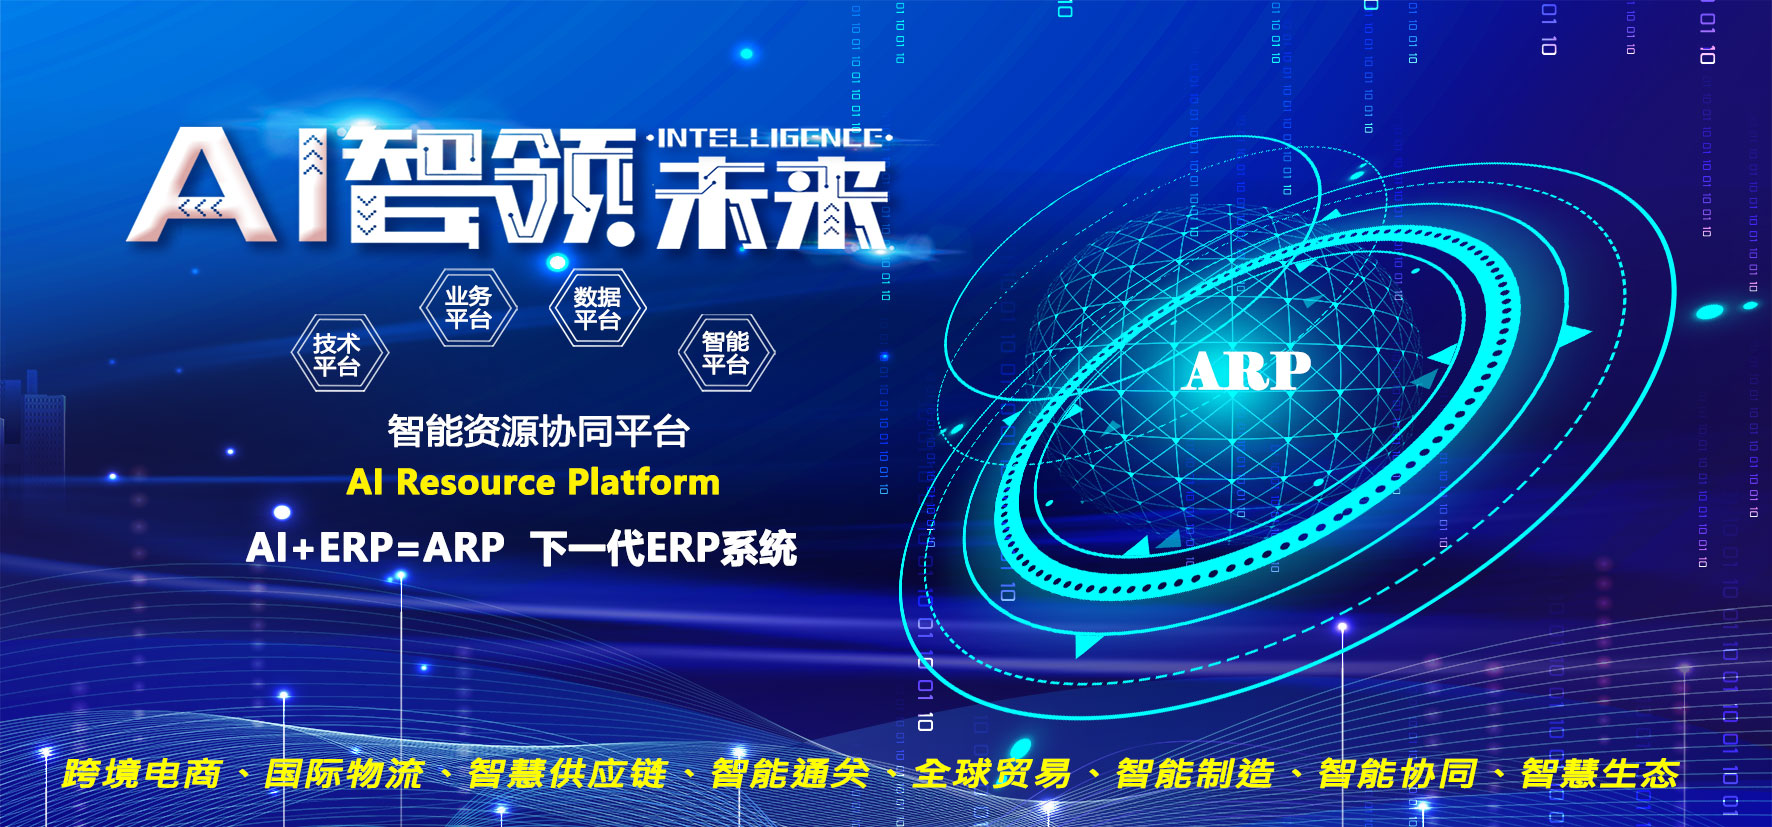
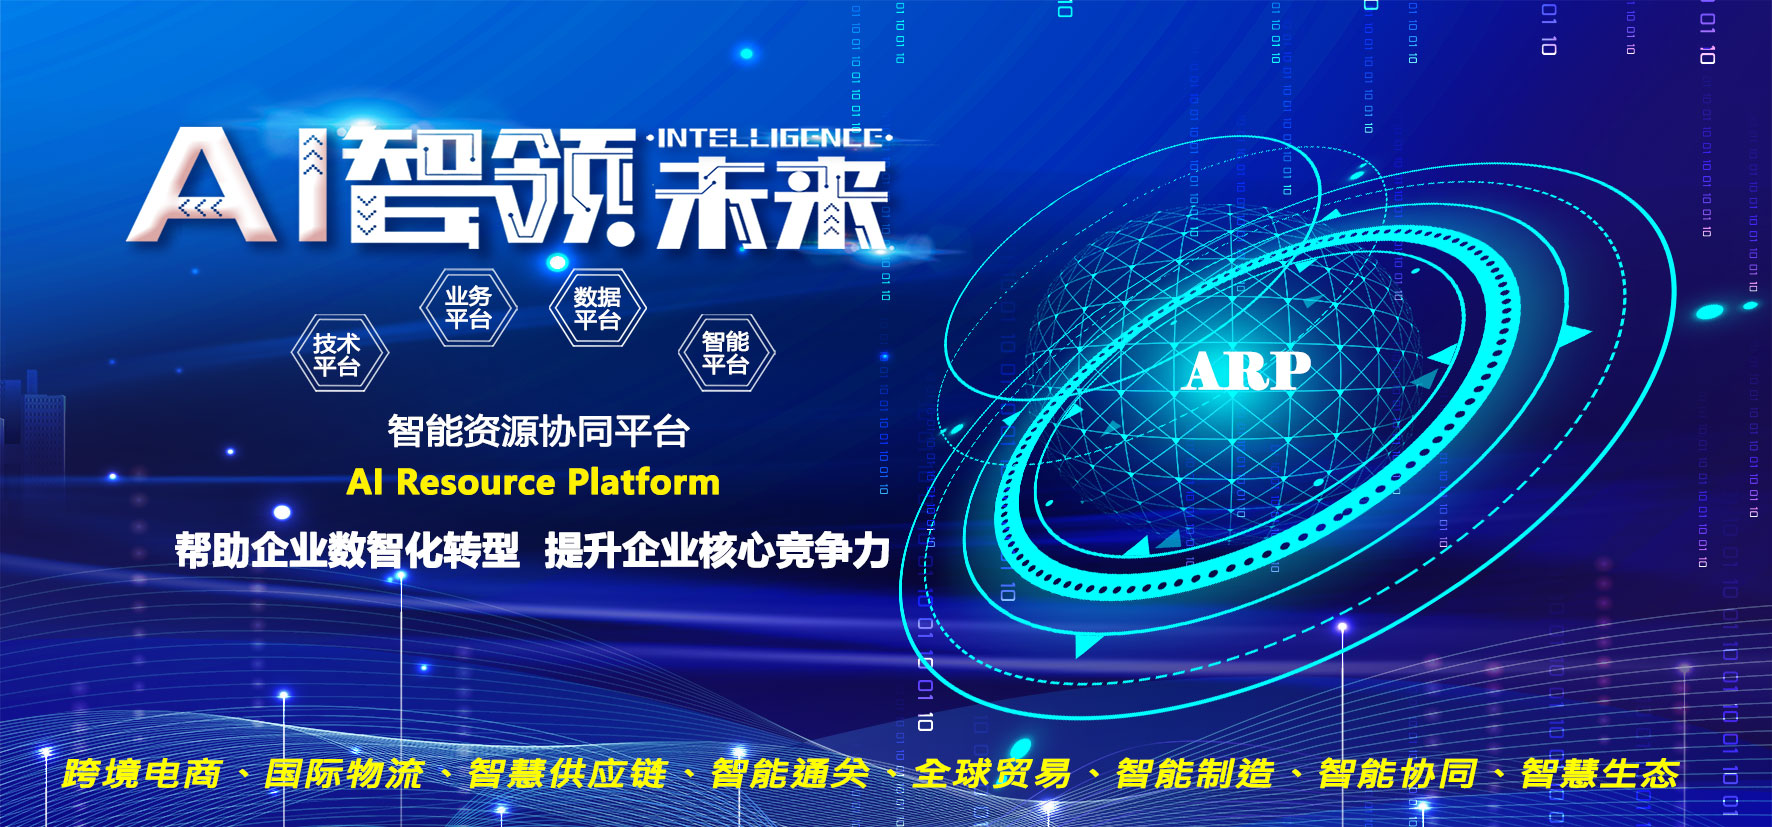
修改官网

Changed region(s): [[0.0931, 0.6348, 0.5277, 0.6953]]

diff --git a/src/pages/PortalPage/component/AboutCompany/index.tsx b/src/pages/PortalPage/component/AboutCompany/index.tsx
@@ -6,6 +6,7 @@ import { Col, Row, Steps } from 'antd';
 import MapEchart from '../MapEchart';
 import AboutUs from '@/assets/about-us.png';
 import AboutUs1 from '@/assets/about-us1.png';
+import LTextTitleRImg from '@/components/LTextTitleRImg';
 
 
 const AboutCompany = () => {
@@ -46,10 +47,10 @@ const AboutCompany = () => {
                     setCurrentTab(4);
                     goAnchor('HonoraryQualifications');
                     break;
-                case '社会责任':
-                    setCurrentTab(5);
-                    goAnchor('SocialResponsibility');
-                    break;
+                // case '社会责任':
+                //     setCurrentTab(5);
+                //     goAnchor('SocialResponsibility');
+                //     break;
                 default:
                     break;
             };
@@ -71,7 +72,7 @@ const AboutCompany = () => {
                         <span className={classNames(currentTab === 2 && styles['select-title'])}>企业文化</span>
                         <span className={classNames(currentTab === 3 && styles['select-title'])}>发展历程</span>
                         <span className={classNames(currentTab === 4 && styles['select-title'])}>荣誉资历</span>
-                        <span className={classNames(currentTab === 5 && styles['select-title'])}>社会责任</span>
+                        {/* <span className={classNames(currentTab === 5 && styles['select-title'])}>社会责任</span> */}
                     </div>
                     <div className={styles['grey-line']} />
                 </div>
@@ -88,7 +89,6 @@ const AboutCompany = () => {
                             </div>
                         </div>
                         <img src={AboutUs1} style={{ width: '100%', padding: '20px 0' }} />
-                        <div style={{ textIndent: '2em', paddingBottom: '20px' }}>帮助企业数智化转型，提升企业核心竞争力！</div>
                         {/* <img className={styles['video-img']} src="https://www.walltechsystem.cn/upload/2022-08/166070601401522300.png" /> */}
 
                         {/* <div className={styles['global-logistics-coverage']}>
@@ -122,7 +122,21 @@ const AboutCompany = () => {
                         <div id="CorporateCulture">企业文化</div>
                         <DownOutlined />
                     </div>
-                    <div className={styles['about-gaojet-real']}>
+                    <LTextTitleRImg title={''} img={''} list={[
+                        { title: '愿景', desc: '让人生活更美好' },
+                        { title: '使命', desc: '帮助企业数智化转型，实现全链路24小时库存和资源高效配置' },
+                        {
+                            title: '价值观', desc: `
+                        诚实守信：诚实、道德规范及高尚情操是我们做事的准则。<br />
+                        客户至上：以客户为中心，满足或超越客户期望的产品与服务。<br />
+                        创新思维：不断创新是令客户满意的基石，更会推动我们发展和提高竞争力。<br />
+                        追求极致：我们无论做任何事都要精益求精，尽善尽美，用心把事情做到极致。<br />
+                        快速响应：响应速度决定工作态度，我们要养成立即执行的工作习惯及提高灵活性。<br />
+                        团队合作：建立相互信任，尊敬互爱的人际关系。
+                        ` },
+                        { title: '行为准则', desc: '实干激情、负责担当、专注简单、共享透明、充分授权!' },
+                    ]} />
+                    {/* <div className={styles['about-gaojet-real']}>
                         <div className={styles['real-module']}>
                             <div style={{ fontSize: '20px', fontWeight: 600 }}>愿景</div>
                             <div >让人生活更美好</div>
@@ -141,7 +155,7 @@ const AboutCompany = () => {
                             <div style={{ fontSize: '20px', fontWeight: 600 }}>行为准则</div>
                             <div >实干激情、负责担当、专注简单、共享透明、充分授权</div>
                         </div>
-                    </div>
+                    </div> */}
                 </div>
                 <div className={styles['about-company-content']}>
                     <div className={styles['about-company-title']}>

diff --git a/src/components/LTextTitleRImg/index.tsx b/src/components/LTextTitleRImg/index.tsx
@@ -15,7 +15,7 @@ const LTextTitleRImg = (props: LTextTitleRImg) => {
 
     return (
         <div className='lTextTitleRImg-wrap'>
-            <Title>{title}</Title>
+            {title && <Title>{title}</Title>}
             <div className='lTextTitleRImg-thought'>
                 <div className='thought-content'>
                     {
@@ -23,16 +23,21 @@ const LTextTitleRImg = (props: LTextTitleRImg) => {
                             return (
                                 <div className='thought-content-item'>
                                     <div className='item-title'>{item.title}</div>
-                                    <div className='item-desc'>{item.desc}</div>
+                                    <div className='item-desc' dangerouslySetInnerHTML={{ __html: item.desc }} />
                                 </div>
                             );
                         })
                     }
                 </div>
-                <div>
-                    {/* <img src="https://bitsun-website.oss-cn-shanghai.aliyuncs.com/img/product/val.png" /> */}
-                    <img src={img} />
-                </div>
+                {
+                    img && (
+                        <div>
+                            {/* <img src="https://bitsun-website.oss-cn-shanghai.aliyuncs.com/img/product/val.png" /> */}
+                            <img src={img} />
+                        </div>
+                    )
+                }
+
             </div>
         </div>
     );

diff --git a/src/pages/PortalPage/component/HomePage/index.tsx b/src/pages/PortalPage/component/HomePage/index.tsx
@@ -234,10 +234,6 @@ const HomePage = () => {
                             </div>
                         </div>
                     </div>
-                    <div className={styles['global-logistics-coverage']}>
-                        <Title title='全球贸易与跨境电商物流' />
-                        {/* <MapEchart /> */}
-                    </div>
                     {/* <img style={{ width: '100%' }} src="https://files.axshare.com/gsc/EI6QAV/a5/53/82/a55382653e6348bab95fa2dbdb57f043/images/%E5%85%B3%E4%BA%8E%E8%89%BE%E6%99%AE/u200.png?pageId=6c73d544-2b6a-48ab-89af-0720db628798" /> */}
                     <div className={styles['news-information']} style={{ display: 'none' }}>
                         <Title title='新闻资讯' />

diff --git a/src/pages/PortalPage/component/ContactUs/index.tsx b/src/pages/PortalPage/component/ContactUs/index.tsx
@@ -115,8 +115,8 @@ const ContactUs = () => {
                 </div> */}
                     <div className="head-office-address">
                         <div >
-                            <div className="office-img">
-                                <img src="https://img.scbao.com/uploads/allimg/110724/6285-110H409503525.jpg" />
+                            <div className="office-img" style={{ background: '#dadada', height: '500px', width: '100%' }}>
+                                {/* <img src="https://img.scbao.com/uploads/allimg/110724/6285-110H409503525.jpg" /> */}
                             </div>
                             <div className="office-map">
                                 <MapComponent height={350} width={420} />

diff --git a/src/pages/PortalPage/component/AboutCompany/index.less b/src/pages/PortalPage/component/AboutCompany/index.less
@@ -32,7 +32,7 @@
             display: flex;
             justify-content: end;
             gap: 5%;
-            padding: 20px 10% 10px;
+            padding: 20px 5% 10px;
 
             span {
                 cursor: pointer;
